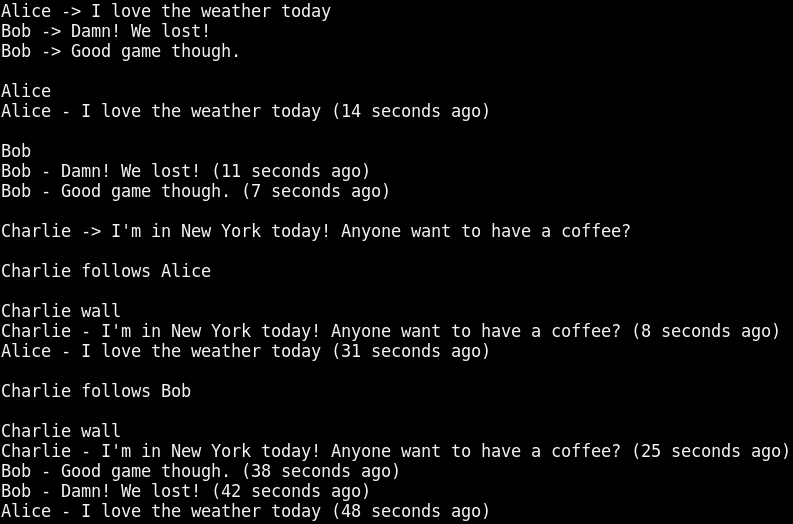
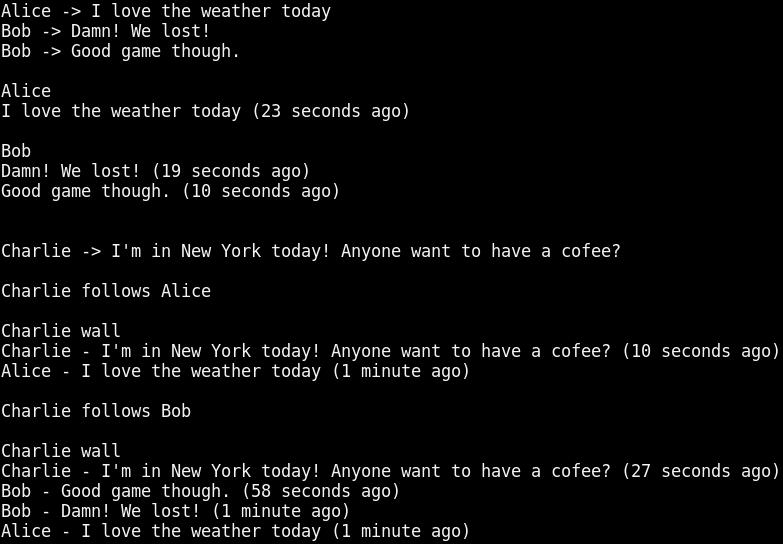
Finishing touches improvements. Some renaming. Updated screenshot to have a correct version of this app.

diff --git a/src/main/java/com/microtwitter/commands/ReadCommand.java b/src/main/java/com/microtwitter/commands/ReadCommand.java
@@ -14,10 +14,10 @@ public class ReadCommand implements Command {
     }
 
     @Override
-    public void execute(Console out) {
+    public void execute(Console console) {
         user.timeline()
             .stream()
             .map(presenter::present)
-            .forEach(out::writeOutput);
+            .forEach(console::writeOutput);
     }
 }

diff --git a/src/main/java/com/microtwitter/commands/WallCommand.java b/src/main/java/com/microtwitter/commands/WallCommand.java
@@ -14,10 +14,10 @@ public class WallCommand implements Command {
     }
 
     @Override
-    public void execute(Console out) {
+    public void execute(Console console) {
         user.wall()
             .stream()
             .map(presenter::present)
-            .forEach(out::writeOutput);
+            .forEach(console::writeOutput);
     }
 }

diff --git a/src/main/java/com/microtwitter/io/Console.java b/src/main/java/com/microtwitter/io/Console.java
@@ -4,8 +4,8 @@ import java.io.PrintStream;
 import java.util.Scanner;
 
 public class Console {
-    private Scanner scanner;
-    private PrintStream stdout;
+    private final Scanner scanner;
+    private final PrintStream stdout;
 
     public Console(Scanner scanner, PrintStream stdout) {
         this.scanner = scanner;

diff --git a/src/main/java/com/microtwitter/commands/FollowCommand.java b/src/main/java/com/microtwitter/commands/FollowCommand.java
@@ -13,7 +13,7 @@ public class FollowCommand implements Command {
     }
 
     @Override
-    public void execute(Console out) {
+    public void execute(Console console) {
         user.follow(folowee);
     }
 }

diff --git a/src/main/java/com/microtwitter/commands/PostCommand.java b/src/main/java/com/microtwitter/commands/PostCommand.java
@@ -13,7 +13,7 @@ public class PostCommand implements Command {
     }
 
     @Override
-    public void execute(Console out) {
+    public void execute(Console console) {
         user.post(message);
     }
 }

diff --git a/src/main/java/com/microtwitter/commands/Command.java b/src/main/java/com/microtwitter/commands/Command.java
@@ -3,5 +3,5 @@ package com.microtwitter.commands;
 import com.microtwitter.io.Console;
 
 public interface Command {
-    void execute(Console out);
+    void execute(Console console);
 }

diff --git a/README.md b/README.md
@@ -15,7 +15,7 @@ Example:
 
     > Alice -> I love the weather today
     > Alice
-    Alice - I love the weather today (3 seconds ago)
+    I love the weather today (3 seconds ago)
     > Bob -> I'm in New York today!
     > Bob follows Alice
     > Bob wall
